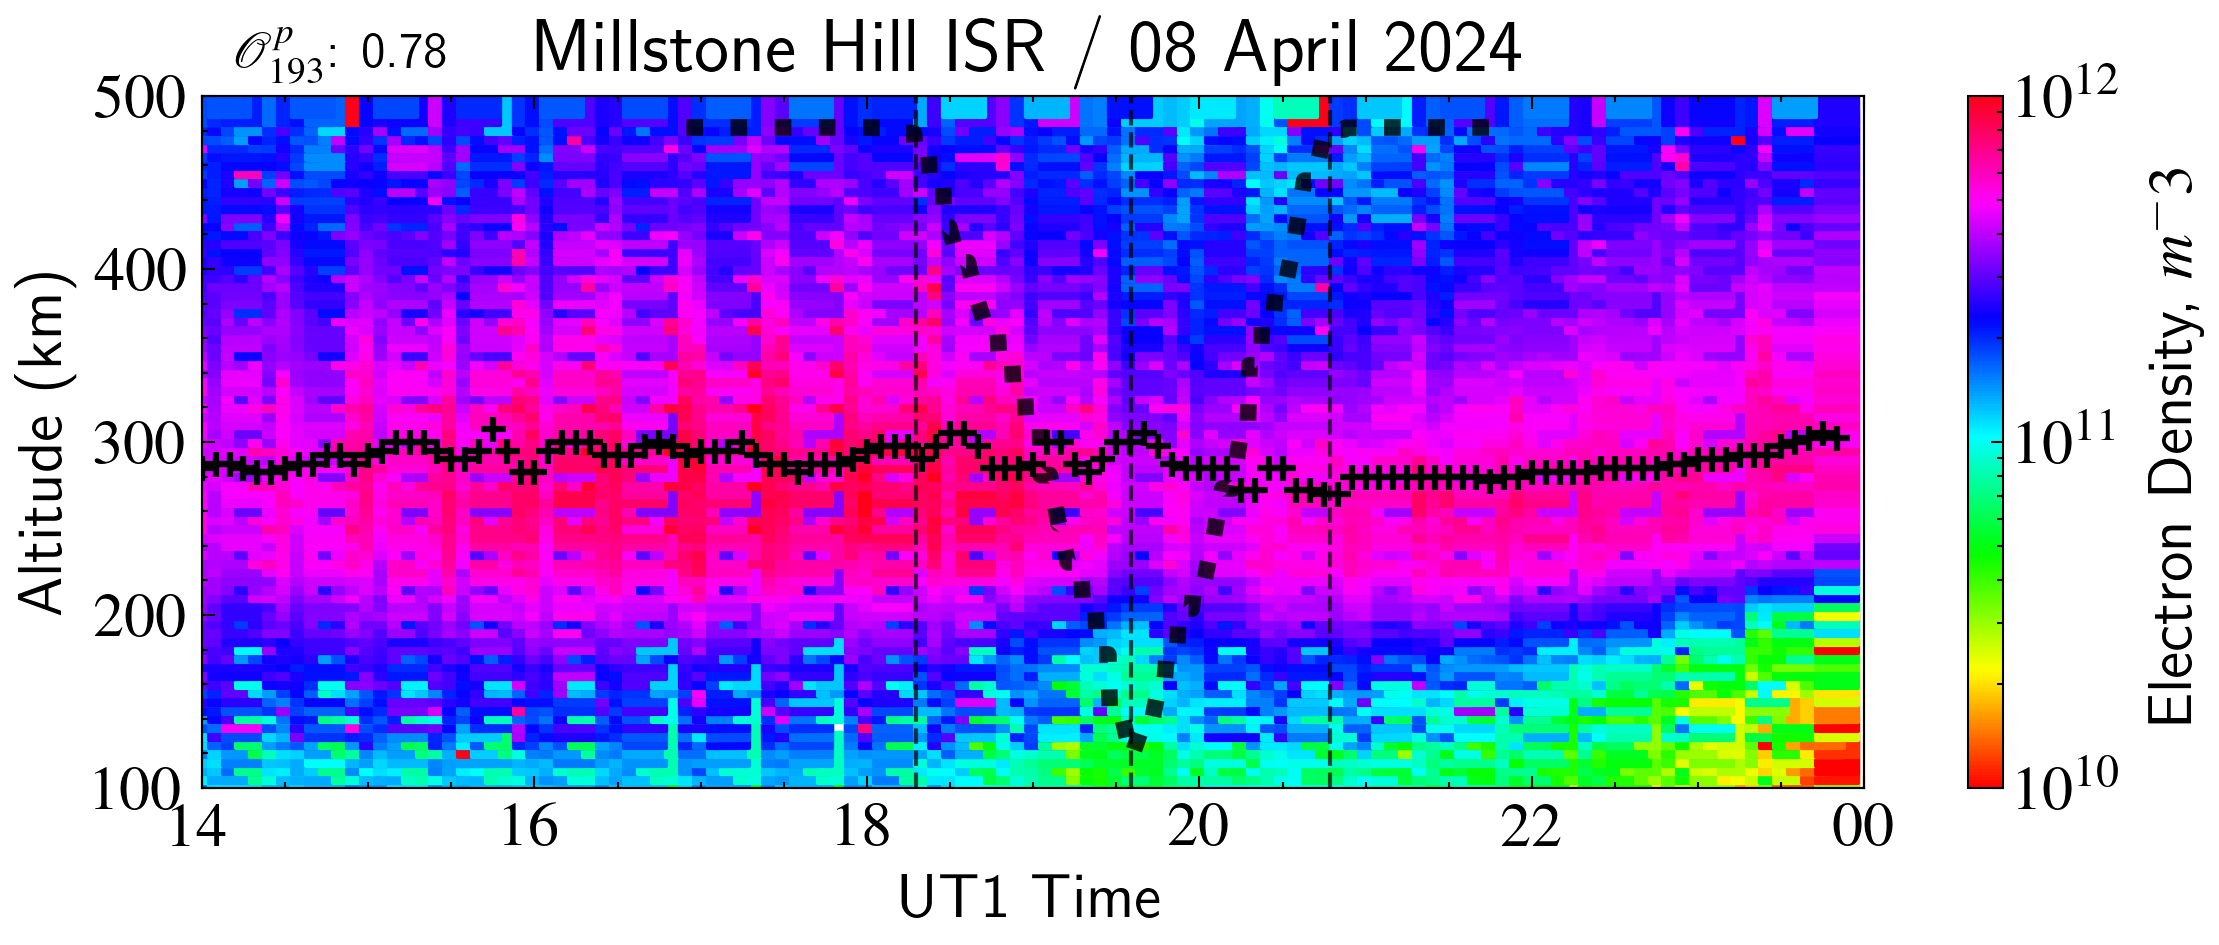
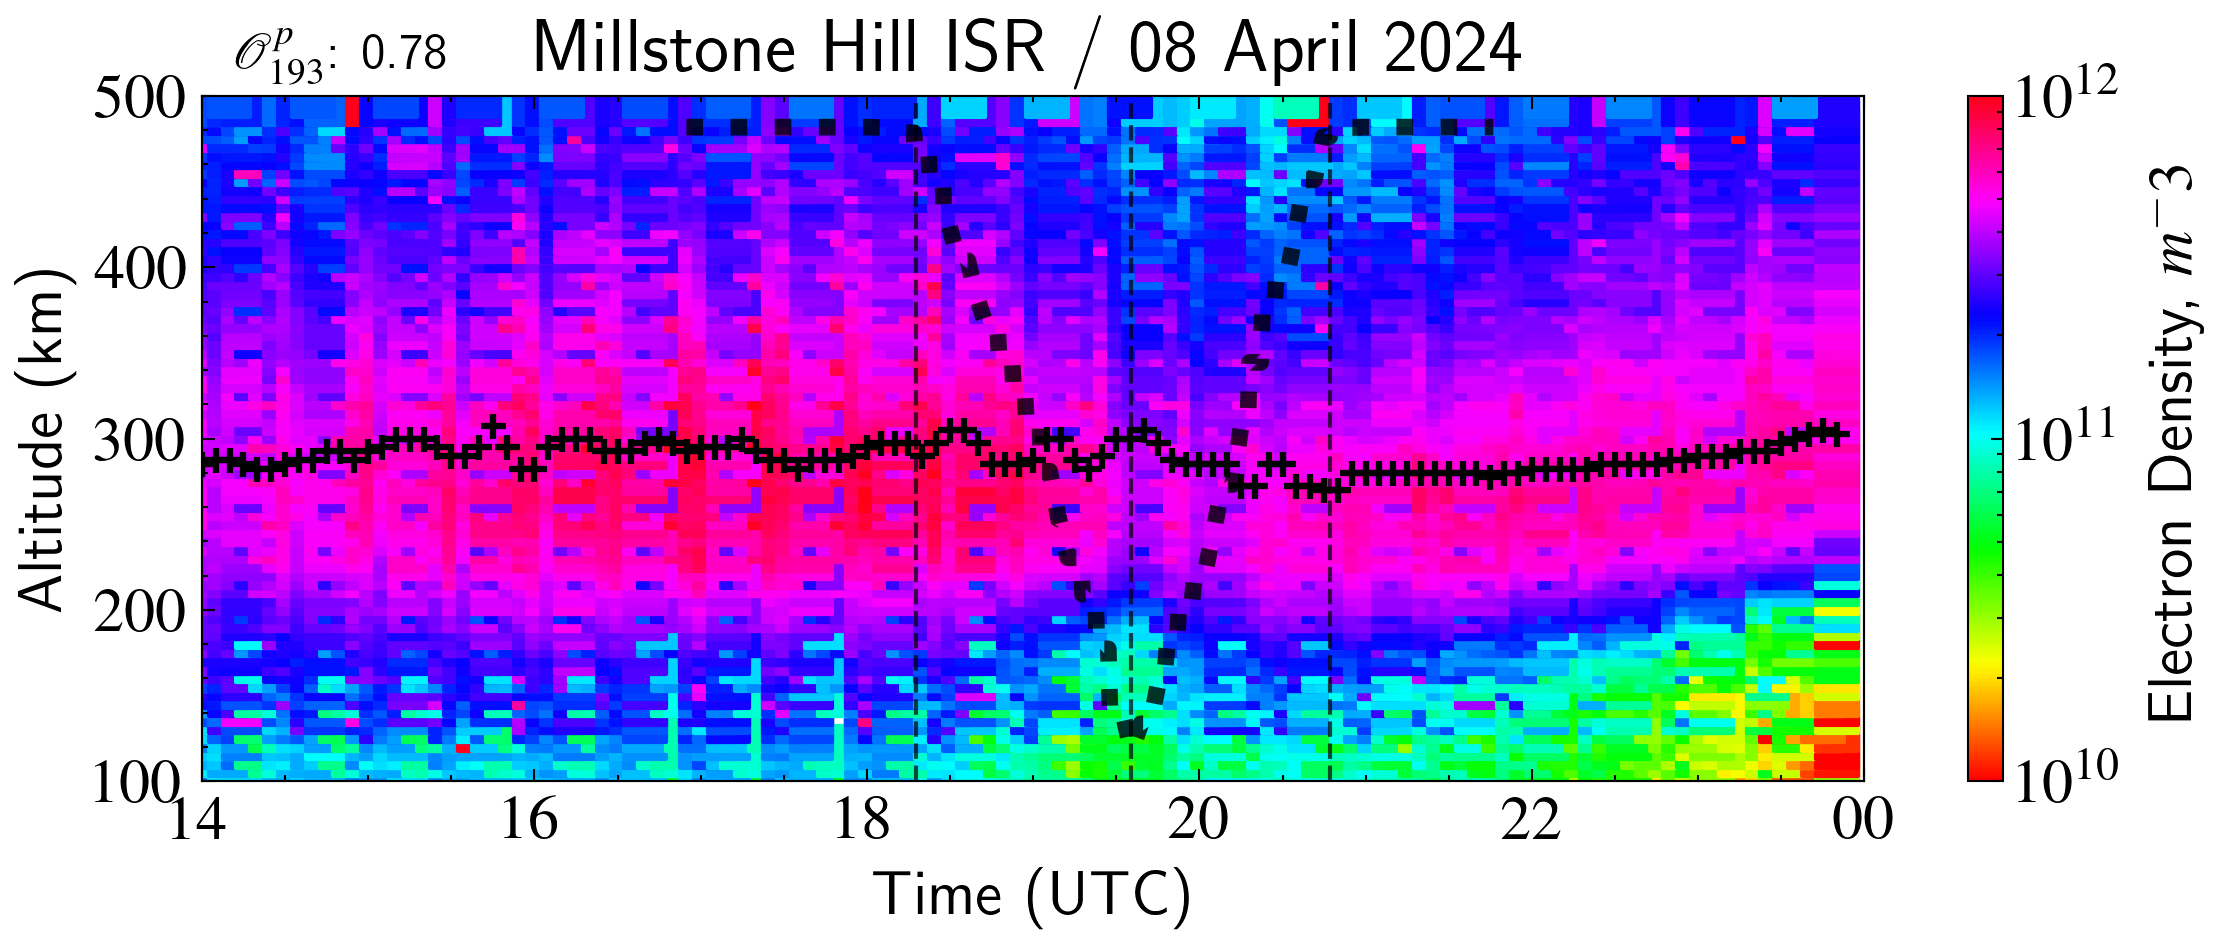
Updated codes

diff --git a/apep/2024/isr_analysis.py b/apep/2024/isr_analysis.py
@@ -158,7 +158,7 @@ def plot_isr_data(ds):
         norm=LogNorm(vmin=1e10, vmax=1e12),
     )
     ax.set_ylabel("Altitude (km)")
-    ax.set_xlabel("UT1 Time")
+    ax.set_xlabel("Time (UTC)")
     ax.set_title("Millstone Hill ISR / 08 April 2024")
     ax.set_ylim(100, 500)
     ax.set_xlim(
